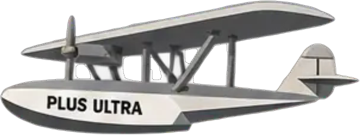
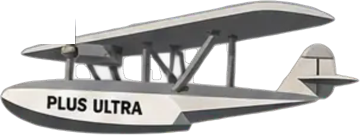
Nieve al 25%, hélices, Wright, Hubble de perfil, toberas Saturno V, destructor 3x más chico, sol y luna detrás
Claude-Session: https://claude.ai/code/session_01HzcLU7UAVJ8SL338GQnGNt

Changed region(s): [[0.1222, 0.1185, 0.2139, 0.3259]]

diff --git a/index.html b/index.html
@@ -39,8 +39,8 @@
   .btn:disabled{opacity:.6;cursor:default}
   .mt{margin-top:10px}
   /* escena: el avión queda quieto, las nubes pasan y el cielo cambia de día a noche en degradé */
-  .scene{position:relative;height:150px;border-radius:16px;overflow:hidden;background:linear-gradient(180deg,#120338 0%,#2A0A8C 55%,#5B2EE6 100%)}
-  .scene .sky{position:absolute;inset:0;transition:opacity 8s ease-in-out}
+  .scene{position:relative;isolation:isolate;height:150px;border-radius:16px;overflow:hidden;background:linear-gradient(180deg,#120338 0%,#2A0A8C 55%,#5B2EE6 100%)}
+  .scene .sky{position:absolute;inset:0;z-index:-1;transition:opacity 8s ease-in-out} /* sol y luna siempre detrás de todo */
   .scene .sky.day{background:linear-gradient(180deg,#3E8FD9 0%,#7CC5F2 60%,#BFE6FF 100%);opacity:0}
   .scene.day .sky.day{opacity:1}
   .scene .sun{position:absolute;left:80%;top:24%;width:34px;height:34px;border-radius:50%;background:radial-gradient(circle at 45% 40%,#FFFBE6 0%,#FFE98A 55%,#FFC83D 100%);box-shadow:0 0 14px 6px rgba(255,225,120,.55),0 0 40px 18px rgba(255,210,90,.22);transform:translate(-50%,-50%);animation:drift 70s ease-in-out infinite alternate}
@@ -49,7 +49,7 @@
   .scene .moon .ph{display:none}
   .scene .moon.p1 .ph1,.scene .moon.p2 .ph2,.scene .moon.p3 .ph3{display:block}
   @keyframes drift{from{transform:translate(-50%,-50%)}to{transform:translate(-50%,calc(-50% - 7px)) translateX(-10px)}}
-  .scene .starswrap{position:absolute;inset:0;transition:opacity 8s ease-in-out;pointer-events:none}
+  .scene .starswrap{position:absolute;inset:0;z-index:-1;transition:opacity 8s ease-in-out;pointer-events:none}
   .scene.day .starswrap{opacity:0}
   .scene .layer{position:absolute;inset:0;background-repeat:repeat-x;background-size:400px 100%}
   .scene .stars{background-image:radial-gradient(1.5px 1.5px at 20px 30px,#fff,transparent),radial-gradient(1.5px 1.5px at 90px 70px,#fff,transparent),radial-gradient(1px 1px at 160px 20px,#fff,transparent),radial-gradient(1.5px 1.5px at 230px 55px,#fff,transparent),radial-gradient(1px 1px at 300px 35px,#fff,transparent),radial-gradient(1.5px 1.5px at 350px 80px,#fff,transparent);animation:scroll 90s linear infinite,twinkle 2.4s ease-in-out infinite}
@@ -446,24 +446,24 @@ const WINGS = {
   superman:[[[52,36]], .55, {back:true, anim:"capa"}] // la capa flamea por detrás del cuerpo
 };
 const OBJS = [
-  ["plusultra",46, FX.prop(16,20,22,.3)], ["spirit",30, FX.prop(6,50,28,.25)],
+  ["plusultra",46, FX.prop(16,17,26,.28)], ["spirit",30, FX.prop(7,50,42,.2)],
   ["xwing",34, FX.flame(72,37,13,180)+FX.flame(72,62,13,180)],
   ["tie",20,""], ["enterprise",70, FX.glow(99,11,10,7,180)+FX.glow(99,43,10,7,180)], ["falcon",74, FX.glow(97,55,12,40,180)],
-  ["hubble",34, FX.blink(84,10,RED)+FX.blink(20,90,GRN,.5)+FX.blink(55,34,WHT,1)],
+  ["hubble",34, FX.blink(62,6,RED)+FX.blink(44,93,GRN,.5)+FX.blink(50,40,WHT,1)],
   ["gansos",30,""], ["boba",18, FX.flame(98,52,22,180)], ["superman",18,""], ["et",18,""], ["pelota",12,""],
   ["dron",12, FX.rotor(12,7,30)+FX.rotor(86,7,30)],
   ["colibri",10,""], ["pegaso",20,""], ["ardilla",12,""], ["nazca",60,""], ["voyager",16,""],
   ["webb",44, FX.blink(50,4,RED)+FX.blink(8,80,GRN,.7)+FX.blink(95,80,WHT,1.3)],
   ["iss",170, FX.blink(3,30,RED)+FX.blink(97,30,GRN,.5)+FX.blink(50,42,WHT,1)],
-  ["grinch",20, FX.prop(4,50,30,.25)], ["helicoptero",28, FX.rotor(47,17,70)+FX.prop(94,50,14,.2)], ["globo",40,""], ["avionpapel",12,""], ["parapente",22,""], ["wingsuit",18,""],
-  ["saturn",70, FX.flame(99,50,40,180)],
+  ["grinch",20, FX.prop(8,50,46,.22)], ["helicoptero",28, FX.rotor(47,17,70)+FX.prop(94,50,14,.2)], ["globo",40,""], ["avionpapel",12,""], ["parapente",22,""], ["wingsuit",18,""],
+  ["saturn",70, FX.flame(99,28,20,180)+FX.flame(99,50,26,180)+FX.flame(99,72,20,180)],
   ["acrobatico",18, FX.prop(5,47,30,.25)], ["ciguena",14,""],
   ["aladelta",22,""], ["wright",26, FX.prop(44,52,22,.25)],
   ["sputnik",32, FX.blink(99,2,RED)+FX.blink(99,29,RED,1.1)+FX.blink(99,72,RED,2.2)+FX.blink(92,97,RED,3.3)+FX.blink(9,50,WHT,.8)], ["pterodactilo",22,""],
   ["globo2",40,""], ["planeador",32,""],
-  ["destroyer",240, FX.glow(98,63,12,22,180)+FX.glow(97,53,8,8,180)+FX.glow(97,73,8,8,180)],
+  ["destroyer",80, FX.glow(98,63,12,22,180)+FX.glow(97,53,8,8,180)+FX.glow(97,73,8,8,180)],
   ["wright2",26, FX.prop(60,50,22,.25)], ["delorean",16, FX.flame(98,84,30,180)+FX.flame(96,92,20,180)],
-  ["parapente2",22,""], ["saturn2",200, FX.flame(100,50,26,180)],
+  ["parapente2",22,""], ["saturn2",200, FX.flame(99,42,18,180)+FX.flame(99,50,24,180)+FX.flame(99,58,18,180)],
   ["ovni",42, FX.blink(24,62,RED)+FX.blink(50,68,WHT,.45)+FX.blink(76,62,GRN,.9)],
   ["copa",12,""]
 ];
@@ -573,7 +573,7 @@ function startScene(){
     // cada gota y cada copo con su propia velocidad, tamaño, retraso y vaivén
     const n = kind === "rain" ? 110 : 60, R = Math.random;
     w.innerHTML = Array.from({length:n}, ()=>{
-      const d = kind === "rain" ? (0.85 + R()*1.2) : (3.5 + R()*6);
+      const d = kind === "rain" ? (0.85 + R()*1.2) : (14 + R()*24);
       const sz = kind === "rain" ? (6 + R()*10) + "px" : (1.5 + R()*2.5) + "px";
       return `<i style="--x:${(R()*100).toFixed(1)}%;--d:${d.toFixed(2)}s;--dl:${(-R()*d).toFixed(2)}s;--s:${sz};--o:${(0.35 + R()*0.6).toFixed(2)};--sw:${(8 + R()*22).toFixed(0)}px"></i>`; }).join("");
     w.className = "weather " + kind + " on";
